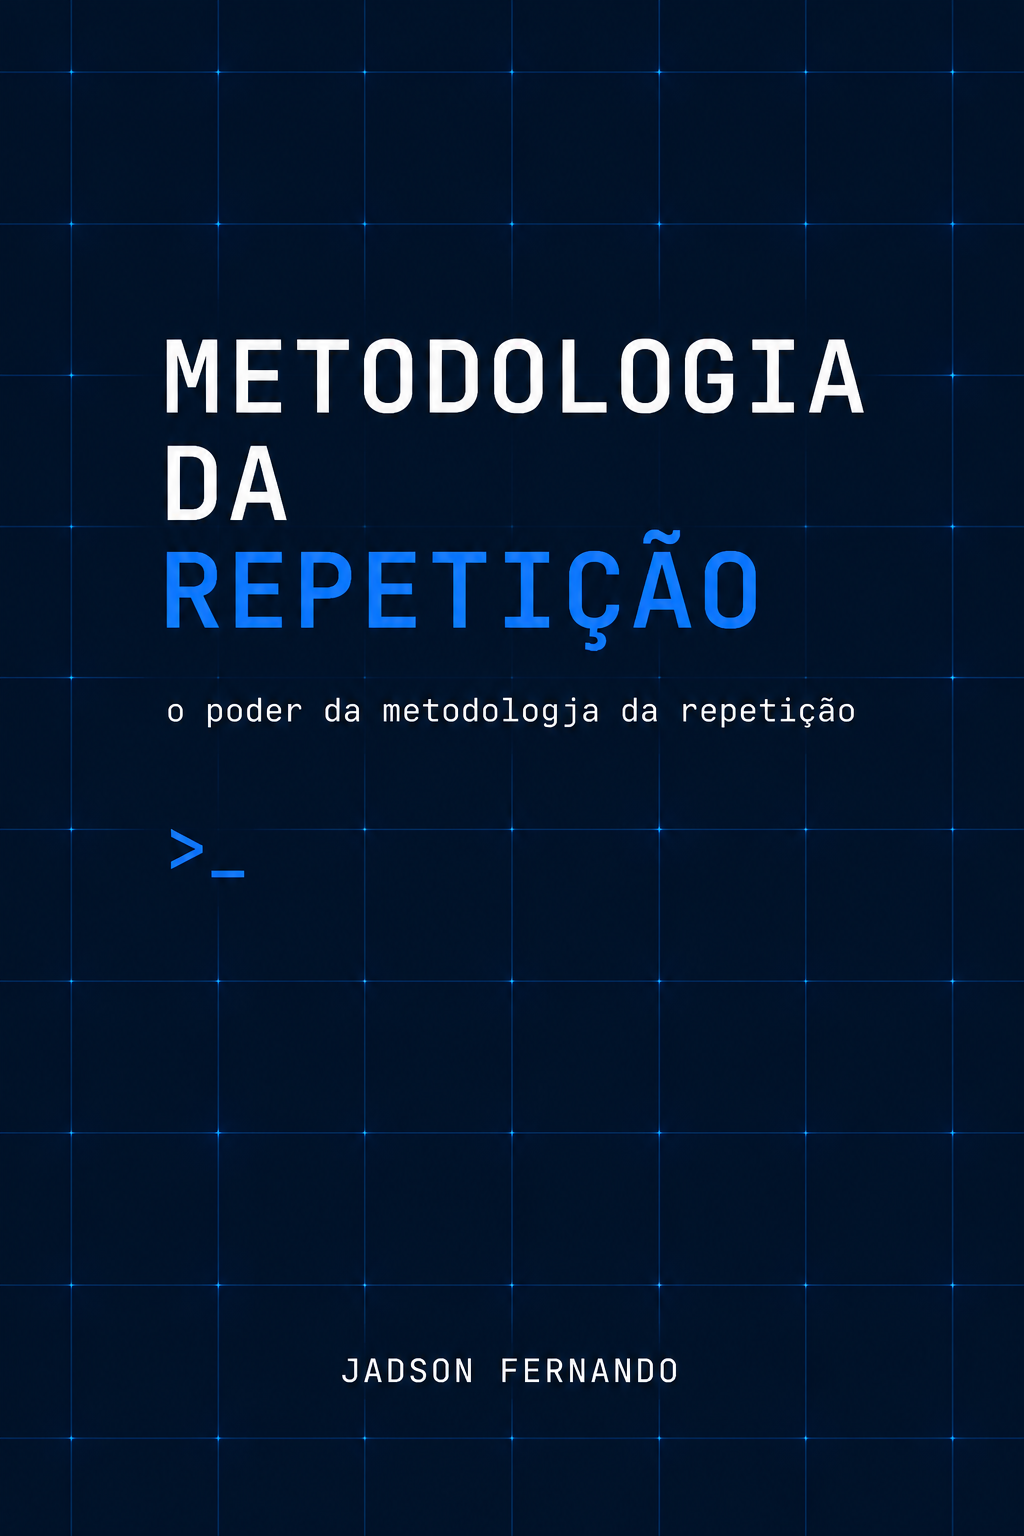
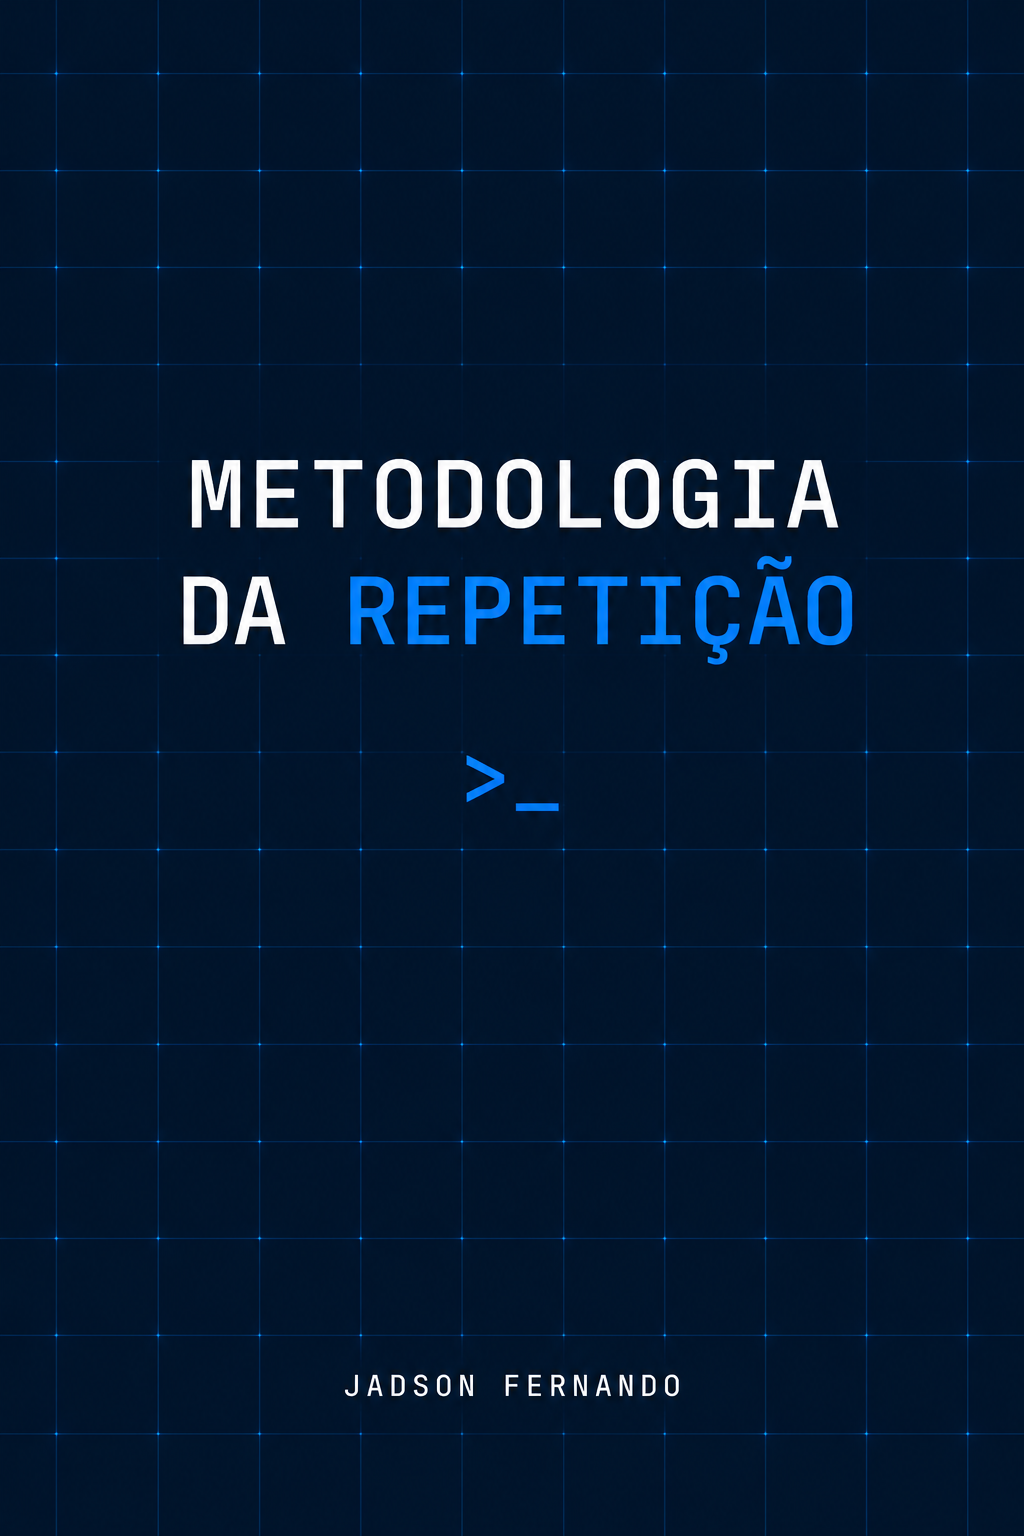
Changes

diff --git a/src/routes/store.tsx b/src/routes/store.tsx
@@ -1,15 +1,17 @@
 import { createFileRoute } from "@tanstack/react-router";
 import { SiteLayout, PageShell } from "@/components/SiteLayout";
-import { BookOpen, Repeat, ArrowRight } from "lucide-react";
-import bookCover from "@/assets/livro-tudo-e-treino.png";
+import { ArrowRight, BookOpen, Repeat, Quote, Route } from "lucide-react";
+import coverRepeticao from "@/assets/livro-metodologia-da-repeticao.png";
+import coverStorytelling from "@/assets/livro-storytelling.png";
+import coverMetodos from "@/assets/livro-metodos-e-processos.png";
 
 export const Route = createFileRoute("/store")({
   head: () => ({
     meta: [
       { title: "Store — Jadson Fernando" },
-      { name: "description", content: "TUDO É TREINO — o poder da metodologia da repetição, de Jadson Fernando Langkammer." },
-      { property: "og:title", content: "Store — Tudo é Treino, de Jadson Fernando Langkammer" },
-      { property: "og:description", content: "O poder da metodologia da repetição — garanta o seu exemplar." },
+      { name: "description", content: "Tudo é treino® — a coleção de livros do Prof. Jadson Fernando Langkammer: Metodologia da Repetição, Storytelling e Métodos e Processos." },
+      { property: "og:title", content: "Store — Tudo é treino®, livros de Jadson Fernando Langkammer" },
+      { property: "og:description", content: "Metodologia da Repetição, Storytelling e Métodos e Processos — garanta o seu exemplar." },
       { property: "og:type", content: "website" },
       { name: "twitter:card", content: "summary_large_image" },
     ],
@@ -18,52 +20,53 @@ export const Route = createFileRoute("/store")({
   component: Page,
 });
 
-const pilares = [
-  {
-    icon: Repeat,
-    t: "A metodologia da repetição",
-    d: "Por que repetir não é decoreba: é como o cérebro consolida competências e transforma prática em maestria.",
-  },
-  {
-    icon: BookOpen,
-    t: "Da rotina ao resultado",
-    d: "Processo, constância e mentalidade aplicados à aprendizagem, à carreira e ao desenvolvimento pessoal.",
-  },
-];
+const waLink = (msg: string) =>
+  `https://wa.me/5533987138346?text=${encodeURIComponent(msg)}`;
+
+function CtaButton({ href, label }: { href: string; label: string }) {
+  return (
+    <a
+      href={href}
+      className="inline-flex items-center justify-center gap-3 border border-primary/40 bg-primary/10 text-primary px-8 py-3.5 text-xs uppercase tracking-[0.18em] font-medium hover:bg-primary hover:text-primary-foreground transition-colors glow-sky whitespace-nowrap"
+    >
+      {label}
+      <ArrowRight size={16} />
+    </a>
+  );
+}
 
 function Page() {
   return (
     <SiteLayout>
       <PageShell
         kicker="07 — Store"
-        title="Tudo é treino."
-        lede="O poder da metodologia da repetição — o livro em que a rotina disciplinada encontra a evolução real."
+        title="Tudo é treino®"
+        lede="A coleção de livros do Prof. Jadson Fernando — método, mentalidade e prática para transformar rotina em resultado."
       >
+        {/* Livro 1 — destaque */}
         <div className="grid lg:grid-cols-12 gap-12 items-start">
-          {/* Livro */}
           <div className="lg:col-span-5 relative">
             <div className="absolute -inset-3 border border-primary/40 translate-x-3 translate-y-3" />
             <img
-              src={bookCover}
-              alt="Livro Tudo é Treino — o poder da metodologia da repetição, de Jadson Fernando Langkammer"
+              src={coverRepeticao}
+              alt="Livro Metodologia da Repetição — o poder da metodologia da repetição, de Jadson Fernando Langkammer"
               className="w-full border border-border"
               width={1024}
-              height={1024}
+              height={1536}
               loading="eager"
             />
             <div className="absolute -bottom-5 -left-5 bg-card border border-border px-5 py-4 glow-sky">
-              <div className="font-display text-[10px] text-primary">{"{ titulo: \"tudo_e_treino\" }"}</div>
+              <div className="font-display text-[10px] text-primary">{"{ volume: \"01\" }"}</div>
               <div className="text-xs text-muted-foreground mt-1">Repetição · Constância · Evolução</div>
             </div>
           </div>
 
-          {/* Produto */}
           <div className="lg:col-span-7 space-y-6">
             <div className="font-display text-xs tracking-wider text-muted-foreground">
-              <span className="text-primary">{"{"}</span> lancamento {"}"}
+              <span className="text-primary">{"{"}</span> volume 01 <span className="text-primary">{"}"}</span>
             </div>
             <h2 className="font-display text-3xl md:text-4xl font-bold leading-tight">
-              TUDO É TREINO — <span className="text-primary">o poder da metodologia da repetição</span>
+              METODOLOGIA DA REPETIÇÃO — <span className="text-primary">o poder da metodologia da repetição</span>
             </h2>
             <p className="text-muted-foreground leading-relaxed">
               Neste livro, Jadson Fernando Langkammer mostra que grandes resultados raramente nascem de
@@ -73,7 +76,18 @@ function Page() {
             </p>
 
             <div className="grid sm:grid-cols-2 gap-6">
-              {pilares.map((p) => (
+              {[
+                {
+                  icon: Repeat,
+                  t: "A metodologia da repetição",
+                  d: "Por que repetir não é decoreba: é como o cérebro consolida competências e transforma prática em maestria.",
+                },
+                {
+                  icon: BookOpen,
+                  t: "Da rotina ao resultado",
+                  d: "Processo, constância e mentalidade aplicados à aprendizagem, à carreira e ao desenvolvimento pessoal.",
+                },
+              ].map((p) => (
                 <div key={p.t} className="bg-card border border-border p-7">
                   <div className="inline-flex items-center justify-center w-11 h-11 border border-primary/40 bg-primary/10 text-primary">
                     <p.icon size={20} strokeWidth={1.5} />
@@ -91,15 +105,68 @@ function Page() {
                   Fale com a minha assistente, reserve o seu e combine o envio.
                 </p>
               </div>
-              <a
-                href="https://wa.me/5533987138346?text=Ol%C3%A1%2C%20quero%20garantir%20o%20meu%20exemplar%20do%20livro%20TUDO%20%C3%89%20TREINO%20do%20Prof.%20Jadson%20Fernando."
-                className="inline-flex items-center justify-center gap-3 border border-primary/40 bg-primary/10 text-primary px-8 py-3.5 text-xs uppercase tracking-[0.18em] font-medium hover:bg-primary hover:text-primary-foreground transition-colors glow-sky whitespace-nowrap"
-              >
-                QUERO O MEU EXEMPLAR
-                <ArrowRight size={16} />
-              </a>
+              <CtaButton
+                href={waLink("Olá, quero garantir o meu exemplar do livro METODOLOGIA DA REPETIÇÃO do Prof. Jadson Fernando.")}
+                label="Quero o meu exemplar"
+              />
             </div>
           </div>
+        </div>
+
+        {/* Livros 2 e 3 */}
+        <div className="grid md:grid-cols-2 gap-10 lg:gap-12 mt-24">
+          {[
+            {
+              cover: coverStorytelling,
+              vol: "02",
+              alt: "Livro Storytelling — 48 histórias para transformar a sua mentalidade, de Jadson Fernando Langkammer",
+              title: "STORYTELLING",
+              subtitle: "48 histórias para transformar a sua mentalidade",
+              icon: Quote,
+              desc: "Histórias não servem apenas para entreter: reprogramam. Neste livro, Jadson Fernando Langkammer reúne 48 narrativas curtas que desmontam crenças limitantes, ampliam o repertório e ensinam o leitor a enxergar sentido — e oportunidade — onde antes havia apenas rotina.",
+              tags: "Repertório · Mentalidade · Narrativa",
+              wa: "Olá, quero garantir o meu exemplar do livro STORYTELLING do Prof. Jadson Fernando.",
+            },
+            {
+              cover: coverMetodos,
+              vol: "03",
+              alt: "Livro Métodos e Processos — como aplicar metodologias ativas, de Jadson Fernando Langkammer",
+              title: "MÉTODOS E PROCESSOS",
+              subtitle: "como aplicar metodologias ativas",
+              icon: Route,
+              desc: "Teoria sem método é apenas intenção. Aqui, o autor traduz sala de aula invertida, aprendizagem baseada em problemas, peer instruction e gamificação em processos claros, passo a passo — um guia nobre e prático para professores e gestores que querem tirar as metodologias ativas do discurso e colocar na prática.",
+              tags: "Método · Processo · Prática",
+              wa: "Olá, quero garantir o meu exemplar do livro MÉTODOS E PROCESSOS do Prof. Jadson Fernando.",
+            },
+          ].map((b) => (
+            <div key={b.vol} className="group bg-card border border-border p-7 lg:p-9 flex flex-col hover:border-primary/60 transition-colors">
+              <div className="relative">
+                <div className="absolute -inset-2 border border-primary/30 translate-x-2 translate-y-2" />
+                <img
+                  src={b.cover}
+                  alt={b.alt}
+                  className="relative w-full border border-border"
+                  width={1024}
+                  height={1536}
+                  loading="lazy"
+                />
+              </div>
+              <div className="font-display text-xs tracking-wider text-primary mt-10">
+                <span className="text-muted-foreground">{"{"}</span> volume {b.vol} <span className="text-muted-foreground">{"}"}</span>
+              </div>
+              <h3 className="font-display text-2xl lg:text-3xl font-bold mt-4 text-foreground leading-tight">
+                {b.title} — <span className="text-primary">{b.subtitle}</span>
+              </h3>
+              <p className="text-muted-foreground mt-4 leading-relaxed text-sm lg:text-base flex-1">{b.desc}</p>
+              <div className="text-xs text-muted-foreground mt-6 flex items-center gap-2">
+                <b.icon size={14} className="text-primary" />
+                {b.tags}
+              </div>
+              <div className="mt-6">
+                <CtaButton href={waLink(b.wa)} label="Quero o meu exemplar" />
+              </div>
+            </div>
+          ))}
         </div>
       </PageShell>
     </SiteLayout>
